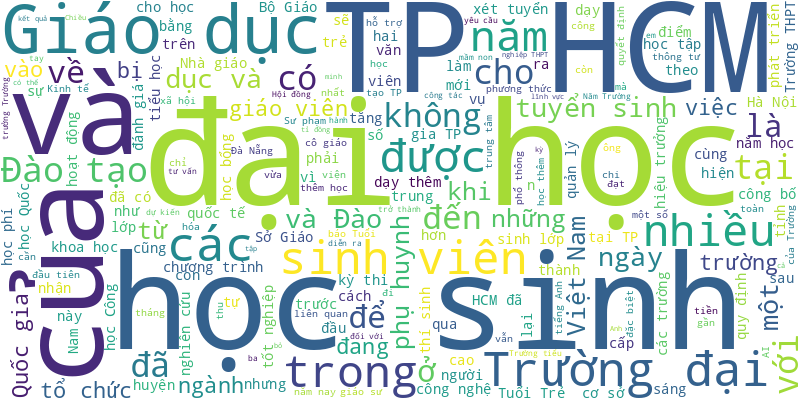
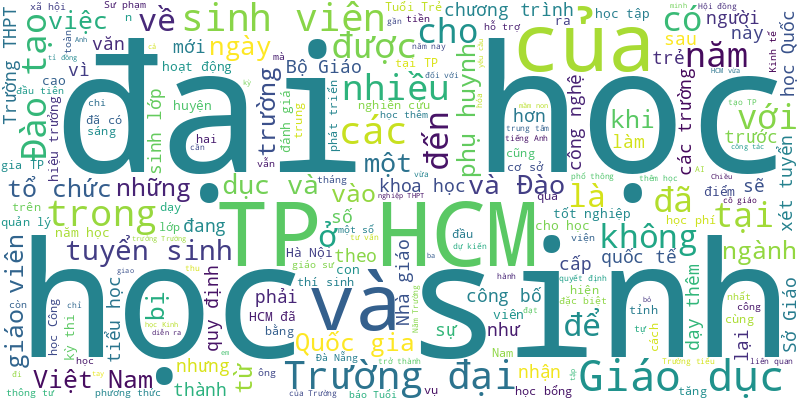
🍀 = 10%

diff --git a/README.md b/README.md
@@ -1,6 +1,14 @@
 # Tuoi Tre RSS 
 
 ## Giáo dục 
+- Sáng nay 23-2, Ngày hội tự tin vào lớp 10 do báo Tuổi Trẻ phối hợp Sở GD-ĐT Hà Nội lần đầu tổ chức tại Trường THPT chuyên Chu Văn An.
+- Chủ đề nóng "không dạy thêm đối với học sinh tiểu học" trong thông tư 29 là vấn đề bàn luận sôi nổi của các em học sinh tiểu học tại quận Gò Vấp, TP.HCM.
+- Chiều 22-2, Đại học Quốc gia TP.HCM tổ chức tọa đàm "Liên kết đại học - địa phương - doanh nghiệp: Hợp lực vì sự phát triển kinh tế và xã hội", với sự tham gia của nhiều lãnh đạo bộ ngành, địa phương, doanh nghiệp và hàng trăm giảng viên, sinh viên.
+- Nhiều học sinh lớp 10, 11 có dự định đổi môn học để chọn tổ hợp môn xét tuyển đại học khác. Điều này liệu có ảnh hưởng đến việc xét tuyển đại học, cao đẳng?
+- Khi nào Bộ Giáo dục và Đào tạo công bố quy chế tuyển sinh đại học năm 2025? Quy chế sẽ có điểm mới quan trọng nào đáng lưu ý?
+- Tại Chương trình tư vấn tuyển sinh - hướng nghiệp 2025 do báo Tuổi Trẻ tổ chức ở Phú Yên, gian tư vấn của các trường thu hút đông học sinh đến nghe trực tiếp về chương trình đào tạo, cơ hội việc làm...
+- Một sinh viên năm nhất Trường đại học Kinh tế - Luật (Đại học Quốc gia TP.HCM) vừa nhận lệnh đi nghĩa vụ quân sự,  gia đình phải làm đơn xin tạm dừng học.
+- Khởi đầu năm 2025, sinh viên ngành Quản trị khách sạn của SIU đã có một hành trình kiến tập đặc biệt tại các resort cao cấp ở Mũi Né (TP. Phan Thiết, Bình Thuận).
 - Việt Nam sẽ lần đầu tiên đăng cai Hội nghị quốc tế về trí tuệ nhân tạo và bán dẫn (AISC 2025) - sự kiện hàng đầu thế giới về công nghệ AI và bán dẫn, diễn ra từ 12 đến 16-3 tại Hà Nội và Đà Nẵng.
 - Trong sáng và chiều nay 22-2, chương trình tư vấn tuyển sinh hướng nghiệp 2025 do báo Tuổi Trẻ tổ chức diễn ra tại Phú Yên và Khánh Hòa.
 - Việc Trường Quốc tế Saigon Pearl đóng cửa vì tuyển sinh khó khăn đã đặt ra câu hỏi: mô hình trường quốc tế có bước vào giai đoạn 'thoái trào'?
@@ -994,16 +1002,45 @@
 - Cô giáo Trương Phương Hạnh bị xử lý kỷ luật ở mức cảnh cáo và không được đứng lớp, chuyển sang làm giáo vụ của trường.
 - Các quan chức khẳng định thực phẩm và đồ uống được cung cấp trong trường học cần phải được sản xuất bằng các nguyên liệu tự nhiên, và phải loại bỏ đồ ăn vặt.
 - Sinh viên khoa truyền thông sáng tạo của Trường đại học Nguyễn Tất Thành có một buổi thực hành tác nghiệp ảnh báo chí thú vị tại Bưu điện TP.HCM.
-- Mức điểm sàn nhận hồ sơ xét tuyển bổ sung vào các trường quân đội dao động từ 10,75 - 28,55 điểm, thang điểm 30 và đã bao gồm điểm ưu tiên.
-- Sau khi va quẹt xe máy ngã xuống đường, một nam sinh dùng mũ bảo hiểm đánh tới tấp nam sinh khác.
-- Việc trường học mời phụ huynh "mục sở thị" bữa ăn bán trú cần được lan tỏa và nhân rộng. Tại sao?
-- Thông tin được đưa ra trong Ngày hội du học New Zealand 2024, diễn ra vào sáng nay 19-10.
-- Nhiều học sinh, sinh viên và phụ huynh tại TP.HCM đến tuần lễ Giáo dục châu Âu để tìm hiểu về trường, học bổng và những chính sách du học phù hợp.
-- Trường đại học Y Dược TP.HCM đã chính thức có hiệu trưởng sau 4 năm nhà trường khuyết chức danh này.
-- Những ngày qua, mạng xã hội xôn xao đoạn tin nhắn của cô giáo đề cập chuyện tặng quà giáo viên nhân Ngày Phụ nữ Việt Nam (20-10).
-- Kỳ thi lớp 10 gồm ba môn toán, ngữ văn và một môn thi thứ ba hoặc bài thi tổ hợp do sở giáo dục và đào tạo lựa chọn và được công bố trước ngày 31-3 hằng năm.
 ![Edu](Edu.png)
 ## Thời Sự 
+- HĐND tỉnh Khánh Hòa không đồng ý với giải trình của UBND tỉnh về đề nghị sửa nghị quyết hơn 10 năm trước.
+- Khu đất vàng 2 mặt tiền giữa trung tâm Đà Nẵng từng liên quan vụ án Phan Văn Anh Vũ được đưa ra đấu giá với giá khởi điểm 59,2 triệu đồng/m2.
+- Trong 10 năm tới, Việt Nam cần chuyển từ lương tối thiểu sang lương đủ sống tối thiểu (khoảng 10,5 triệu đồng/tháng).
+- Năm 2024, dân số TP.HCM chỉ hơn Hà Nội 1 triệu người (TP.HCM 9,5 triệu dân; Hà Nội 8,6 triệu dân) nhưng mật độ dân số của TP.HCM cao gấp 1,7 lần so với Hà Nội, với 4.544 người/km², còn Hà Nội 2.585 người/km².
+- Tin tức đáng chú ý: TP.HCM điều chỉnh lịch trả lương hưu và trợ cấp BHXH bằng tiền mặt; Nhiều quận ở Hà Nội lắp camera giám sát xả rác; Một bệnh viện ở TP.HCM tiếp nhận 15.000 ca đột quỵ mỗi năm...
+- Hôm nay 23-2, thời tiết Bắc Bộ mưa rét do ảnh hưởng không khí lạnh. Nam Bộ có nơi mưa to do nhiễu động.
+- Bắc Ninh đang thu hút đầu tư nước ngoài có trọng điểm và mong muốn Huawei nghiên cứu, tìm hiểu cơ hội đầu tư vào tỉnh qua sản xuất linh kiện điện tử, bán dẫn...
+- Theo Bộ Ngoại giao, cuộc gặp của ba Thủ tướng nhằm triển khai kết luận cuộc gặp giữa ba người đứng đầu ba Đảng ở Việt Nam, Lào và Campuchia trong ngày 22-2.
+- Liên quan vụ sai phạm đền bù dự án sân bay Long Thành, Công an Đồng Nai vừa bắt thêm giám đốc, phó giám đốc Trung tâm phát triển quỹ đất huyện Long Thành và nhiều cán bộ.
+- Suối ở Phú Quốc (Kiên Giang) có dấu hiệu thiếu hụt nguồn nước. Để bảo vệ rừng, UBND TP Phú Quốc và các đơn vị chủ rừng triển khai nhiều giải pháp và người dân địa phương đồng lòng ký cam kết giữ rừng cho đảo ngọc.
+- Ngày 22-2, tại TP.HCM, Tổng Bí thư Tô Lâm đã có cuộc gặp Chủ tịch Đảng Nhân dân Campuchia Hun Sen và Tổng Bí thư Đảng Nhân dân cách mạng Lào Thongloun Sisoulith.
+- Dự báo đêm nay đến ngày mai từ Đà Nẵng đến Khánh Hòa, Nam Tây Nguyên và Nam Bộ có mưa, có nơi mưa to. Miền Bắc đón không khí lạnh, trời mưa rét.
+- Tổng mức đầu tư dự án đường cao tốc Biên Hòa - Vũng Tàu được kiến nghị điều chỉnh lên 22.093 tỉ đồng, tăng 4.256 tỉ so với mức 17.837 tỉ đã được duyệt.
+- Nhóm lừa đảo người Việt dưới sự quản lý của người Trung Quốc đã dẫn dụ hàng trăm người, chiếm đoạt hàng chục tỉ đồng.
+- Khi có dịp phải đi đâu bằng xe giường nằm, cảm giác lo lắng luôn ở trong tôi và chỉ thực sự an tâm khi kết thúc chuyến hành trình.
+- Người nhà sản phụ tố Bệnh viện Phụ sản trung ương tắc trách khiến sản phụ sinh non, Bộ Y tế yêu cầu bệnh viện làm rõ.
+- Ông Nguyễn Văn Được hứa sẽ tham mưu, đề xuất Ban Chấp hành Đảng bộ TP.HCM sớm tháo gỡ những điểm nghẽn, khó khăn, vướng mắc về giao thông, thương mại giữa TP.HCM với vùng Đồng bằng sông Cửu Long.
+- Theo người dân, ngoài 3 người đã đi tiêm huyết thanh kháng dại, con chó dại trên còn cắn một số người nhưng chưa rõ danh tính và địa chỉ cư trú.
+- Nam thanh niên xông vào cửa hàng FPT Shop trên đường Phạm Văn Đồng (phường Linh Tây, TP Thủ Đức, TP.HCM), tay cầm dao đe dọa nhân viên, cướp tiền rồi tẩu thoát.
+- Người dân mong muốn việc sáp nhập tỉnh, bỏ cấp huyện nên thực hiện như thế nào để đảm bảo phù hợp, hiệu lực, hiệu quả...
+- Tài xế cần đảm bảo sức khỏe, tỉnh táo khi lái xe; khi đi trên đường đèo dốc, cong cua, trơn trượt, cần chú ý quan sát giảm tốc độ.
+- TP.HCM sẽ có khu 'campus y tế' đầu tiên tại Việt Nam, đúng tiêu chuẩn kiểu mẫu của các nước có nền y tế phát triển trên thế giới, đó chính là Cụm y tế Tân Kiên, huyện Bình Chánh.
+- Sáng nay 22-2, Tổng Bí thư Tô Lâm cùng đoàn lãnh đạo các cấp đã có chuyến đi trải nghiệm tuyến metro số 1 TP.HCM.
+- Nhiều địa phương đã cùng hiến kế, góp vốn và đưa ra các giải pháp nhằm khơi thông các động lực tăng trưởng.
+- Nhiều gia đình có con đang tại ngũ cho biết chậm được cấp thẻ bảo hiểm y tế, thường sau khoảng 3-4 tháng mới có thẻ.
+- Ngày 21-2, Chính phủ Việt Nam đã ra Tuyên bố về đường cơ sở của Việt Nam trong vịnh Bắc Bộ.
+- Ở biển, nhiều người vẫn mang nỗi lo 'cứu người thế mạng'. Nhưng có một người đàn ông, ai bị nạn trên biển ông cũng cứu.
+- Hai vấn đề cần làm rõ từ vụ việc bán gạo giá rẻ lề đường, bị mời làm việc.
+- Thành ủy TP Huế đã công bố nhiều quyết định điều động nhân sự, trong đó hợp nhất Ban Dân vận và Ban Tuyên giáo Thành ủy TP Huế thành Ban Tuyên giáo và Dân vận Thành ủy.
+- Đến 11h ngày 22-2, Phòng cảnh sát giao thông Công an tỉnh Khánh Hòa vẫn đang tiếp tục điều tra nguyên nhân vụ tai nạn liên hoàn giữa 2 xe khách và xe tải trên tuyến quốc lộ 1 đoạn qua địa bàn tỉnh này.
+- Chủ tịch Quốc hội Trần Thanh Mẫn vừa ký ban hành nghị quyết về nhiệm vụ, quyền hạn cụ thể và cơ cấu tổ chức của Hội đồng Dân tộc, các ủy ban của Quốc hội.
+- Liên quan đến vụ án chồng giết vợ, cắt thi thể thành 3 phần thả xuống biển phi tang ở Đà Nẵng, người chồng giết vợ sau cãi vã vì vợ đòi đi chơi với nhóm bạn.
+- Ngày 22-2, Sở Xây dựng Đà Nẵng công bố thông tin các dự án đầu tư xây dựng nhà ở thương mại cho phép tổ chức, cá nhân nước ngoài được quyền sở hữu nhà ở trên địa bàn.
+- Theo số liệu của Bộ Nội vụ, sau sắp xếp, sáp nhập, hiện cả nước có 63 tỉnh, thành, với 696 đơn vị cấp huyện, 10.035 đơn vị cấp xã.
+- Tài xế Nguyễn Đình Hùng bị tạm giữ hình sự với cáo buộc không đảm bảo tốc độ an toàn khi điều khiển xe khách, dẫn đến vụ tai nạn nghiêm trọng.
+- Ông Nguyễn Văn Quyết, Phó chủ nhiệm Ủy ban Kiểm tra Trung ương, được Bộ Chính trị điều động, chỉ định giữ chức Bí thư Tỉnh ủy Long An, nhiệm kỳ 2020-2025.
+- Trong số 8 người bị thương vụ xe khách văng vào xe đầu kéo ở Sơn La làm 6 người chết, có một số người bị thương nặng phải chuyển lên bệnh viện tuyến trên nhưng không nguy hiểm đến tính mạng.
 - Chỉ dài đúng 1km nhưng đoạn quốc lộ 27 đi qua xã Lạc Lâm (huyện Đơn Dương, tỉnh Lâm Đồng) có đến 23 biển báo cấm đậu xe ngày chẵn.
 - Khung cảnh hiện trường tang thương và hoảng loạn, trong khi tiếng kêu cứu vang vọng khắp nơi. 'Chiếc xe khách bị xé toạc phần thân, rách tan lớp vỏ ngoài. Mọi người rơi ra, nằm la liệt trên mặt đất', nhân chứng vụ tai nạn mô tả.
 - Một số tin tức đáng chú ý: Đề nghị rà soát, báo cáo để chuẩn bị đề xuất điều chỉnh lương tối thiểu vùng; Kho bạc Nhà nước mua lượng lớn USD giữa lúc tỉ giá 'căng'; Lý do khối ngoại rút tiền khỏi chứng khoán Việt...
@@ -1012,7 +1049,7 @@
 - Nguyên nhân sơ bộ được xác định là lái xe khách đi đến đoạn đường vòng cua, mặt đường trơn trượt do trời mưa dẫn đến không làm chủ tốc độ. Sau đó, phần đuôi ô tô khách văng vào đầu xe đầu kéo đi chiều ngược lại.
 - Vụ tai nạn giao thông giữa xe khách giường nằm và xe đầu kéo trên quốc lộ 6 (đoạn qua Sơn La) làm 6 người chết, 4 người bị thương.
 - Lần theo dấu vết một tiệm tạp hóa bán 100kg cà phê bột, Công an tỉnh Đắk Lắk đã triệt phá một xưởng sản xuất cà phê giả quy mô lớn nằm ở Bình Dương, TP.HCM.
-- Tính đến nay có 180 cán bộ, công chức, viên chức tự nguyện nghỉ trước tuổi, thôi việc khi Bộ Nội vụ hợp nhất với Bộ Lao động, Thương binh và Xã hội.
+- Tính đến nay có 180 cán bộ, công chức, viên chức tự nguyện nghỉ trước tuổi khi Bộ Nội vụ hợp nhất với Bộ Lao động, Thương binh và Xã hội.
 - Hội đồng nhân dân tỉnh Bắc Giang vừa có hai nghị quyết thông qua chủ trương liên quan tới cầu Hà Bắc 1 và cầu Vân Hà với tổng mức đầu tư gần 2.000 tỉ đồng, kết nối hai tỉnh Bắc Giang và Bắc Ninh.
 - Theo nhiệm vụ quy hoạch chi tiết, Trường đại học Ngoại thương cơ sở Bắc Ninh sẽ nằm ở thành phố Từ Sơn với quy hoạch khoảng 33,66 ha.
 - Ngày 21-2, Bộ Công Thương quyết định áp thuế chống bán phá giá tạm thời đối với thép cán nóng (HRC) nhập khẩu từ Trung Quốc, với mức thuế dao động 19,38 - 27,83%.
@@ -1967,43 +2004,6 @@
 - Tổng Bí thư Tô Lâm yêu cầu các cơ quan, đơn vị, địa phương bắt tay ngay vào công việc sau nghỉ Tết, không để xảy ra tình trạng ăn Tết kéo dài.
 - Khu bảo tồn thiên nhiên đất ngập nước Thái Thụy (Thái Bình) là nơi được Bộ Tài nguyên và Môi trường lựa chọn phát động Tết trồng cây.
 - Trưởng Ban Tuyên giáo và Dân vận Trung ương Nguyễn Trọng Nghĩa nêu rõ năm 2024 đã trải qua nhiều sự kiện, vấn đề hệ trọng của đất nước.
-- Ngày 4-2, Tỉnh ủy Quảng Ngãi tổ chức hội nghị công bố quyết định thành lập, kết thúc, giải thể tổ chức Đảng và công tác cán bộ.
-- Nghị định 168 quy định cụ thể về mức phạt đối với một số lỗi vi phạm mà các tài xế xe máy thường mắc phải.
-- Cơ quan chức năng đã làm việc với chủ quán cơm Tân Mai trên quốc lộ 1 (huyện Tuy An, Phú Yên) sau khi bị khách tố 'chặt chém'.
-- Chủ tịch Quốc hội Trần Thanh Mẫn biểu dương lực lượng công an tiên phong đi đầu trong việc sắp xếp, tinh gọn bộ máy.
-- Dọc theo hai bờ sông Hàn (Đà Nẵng), những tòa nhà cao tầng thay nhau mọc lên, làm bộ mặt đôi bờ sông càng ngày càng hiện đại.
-- Sau hành trình dài chạy ô tô qua nhiều địa phương để về quê chơi Tết, nhiều tài xế lo ngại xe của mình bị 'dính' phạt nguội và tìm cách tra cứu.
-- Sáng 4-2, Thủ tướng Phạm Minh Chính - trưởng Ban Chỉ đạo xây dựng nhà máy điện hạt nhân, chủ trì phiên họp thứ hai.
-- Đó là yêu cầu của Thủ tướng về việc thực hiện nếp sống văn minh, an toàn, tiết kiệm trong các hoạt động sau Tết Ất Tỵ và Lễ hội xuân năm 2025.
-- Tin từ Sở Y tế TP.HCM cho hay trong dịp Tết Ất Tỵ, số ca cấp cứu và điều trị do tai nạn giao thông giảm, số ca cấp cứu do pháo nổ giảm 50%.
-- Dịp Tết, tại các cửa ngõ TP.HCM, mặc dù lượng xe vẫn nhiều nhưng không xảy ra cảnh 'kẹt cứng' kéo dài nhiều km như những năm trước.
-- Một số tin tức đáng chú ý: Phạt một công ty bảo hiểm vì đưa thông tin gây nhầm lẫn để hút khách; Sếp VPBank chi gần 600 tỉ đồng mua cổ phiếu đầu năm; Nhu cầu thấp, siêu thị, chợ 'ê hề' hàng những ngày đầu năm...
-- Hôm nay 4-2, không khí lạnh đã bao trùm Bắc Bộ và lan tới các tỉnh Trung Bộ. Nam Bộ thời tiết sớm lạnh, ngày nắng.
-- Công an xã Vĩnh Thái giữ đúng hẹn ngày đầu tiên làm việc đã công bố 27 trang sao kê số tiền 559 nhà hảo tâm lì xì người phụ nữ mất tiền khi đi chợ Tết. Tổng số tiền ủng hộ là hơn 160 triệu đồng.
-- Tối 3-2 (mùng 6 Tết), một trận động đất mạnh 2,6 độ xảy ra tại khu vực huyện Chương Mỹ (Hà Nội). Nhiều người dân ở khu vực ngoại thành cảm nhận được rung lắc.
-- Ban Chấp hành Đảng bộ tỉnh Bắc Ninh khóa XX tổ chức hội nghị công bố quyết định về việc sắp xếp tổ chức bộ máy và công tác cán bộ.
-- Quá trình chữa cháy, trung tá Nguyễn Quang Hiếu, phó trưởng Công an huyện Kim Thành, bị thương và đã được đưa đến Trung tâm Y tế huyện điều trị.
-- Khi phát hiện 3 cháu bé bị đuối nước dưới hồ, chị Nguyễn Thị Trang đã lập tức băng qua lan can, lao xuống hồ cứu các cháu.
-- Một quán cơm nằm trên quốc lộ 1, đoạn qua xã An Hiệp (huyện Tuy An, Phú Yên) bị khách tố “chặt chém”. Thậm chí khi khách thắc mắc, nhân viên quán này còn thách thức cho rằng ngày Tết không lì xì thì thôi sao lại so bì giá.
-- Chiều 3-2, Thủ tướng Chính phủ Phạm Minh Chính chủ trì họp Thường trực Chính phủ với các bộ, ngành đánh giá tình hình Tết và triển khai nhiệm vụ trọng tâm sau Tết.
-- Ông Lương Văn Thức - trưởng Ban Nội chính Tỉnh ủy và bà Hoàng Thị Vĩnh - trưởng Ban Dân vận Tỉnh ủy Yên Bái - xin nghỉ hưu trước tuổi để tạo điều kiện cho việc sắp xếp bộ máy.
-- Ngọn lửa bùng lên tại tầng 2 của một căn nhà cho thuê trọ cao 6 tầng. Cảnh sát đã giải cứu 7 người mắc kẹt bên trong qua tầng mái sang nhà bên cạnh và đưa xuống nơi an toàn.
-- Ngày 3-2, Tổng Bí thư Tô Lâm đã trao quyết định của Bộ Chính trị về chỉ định nhân sự 4 đảng bộ trực thuộc Trung ương và 3 cơ quan Đảng ở Trung ương.
-- Bà Huỳnh Thị Thùy Dung được bổ nhiệm làm trưởng Ban Tuyên giáo và Dân vận Tỉnh ủy Quảng Nam sau hợp nhất hai ban của Tỉnh ủy.
-- Dân nuôi tôm, cua ở huyện An Minh, An Biên (Kiên Giang) hiện chủ động phòng tránh xâm nhập mặn bằng việc gia cố bờ bao và đo độ mặn trên kênh, sông nội đồng thường xuyên trước khi bơm nước vào ruộng.
-- Cuốn sách 'Tuyệt đối trung thành với Tổ quốc, với Đảng, Nhà nước và Nhân dân - Sáng ngời tư cách người Công an cách mạng' thể hiện trách nhiệm, sự tâm huyết, tấm lòng vì nước, vì dân của Tổng Bí thư Tô Lâm.
-- Tổng Bí thư Tô Lâm trao các quyết định thành lập 4 đảng bộ trực thuộc Trung ương Đảng, gồm Đảng bộ các cơ quan Đảng Trung ương, Đảng bộ Chính phủ, Đảng bộ Quốc hội và Đảng bộ Mặt trận Tổ quốc Việt Nam, các đoàn thể Trung ương.
-- Phát học bổng cho con cháu đầu xuân, làng Nại Cửu hy vọng 'Chắt chiu khuyến học hôm nay / Ươm mầm tài lộc ngày mai cho làng'.
-- Tỉnh ủy Long An công bố thành lập 2 Đảng bộ mới từ 54 cơ sở Đảng tiếp nhận từ Đảng bộ Khối cơ quan và doanh nghiệp tỉnh.
-- Tại phiên họp 42, Ủy ban Thường vụ Quốc hội sẽ cho ý kiến liên quan các nghị quyết của Quốc hội về cơ cấu tổ chức của Chính phủ nhiệm kỳ Quốc hội khóa XV.
-- Ngày 3-2, Công ty cổ phần Tập đoàn Trường Hải (THACO) tổ chức lễ ra quân đầu năm Ất Tỵ 2025, khánh thành bến cảng 5 vạn tấn, hàng loạt nhà máy và xuất khẩu các lô hàng đầu năm.
-- Tổng biên tập báo Đắk Nông cho hay đây là báo đảng địa phương thứ 2 trong toàn quốc ra mắt chuyên trang Đại hội Đảng.
-- Từ ngày 25-1 (ngày 26 tháng chạp) đến hết 2-2 (mùng 5 tháng giêng), trạm thu phí BOT cầu Rạch Miễu đã phải xả 43 lần theo yêu cầu của cảnh sát giao thông hai tỉnh Tiền Giang và Bến Tre để giảm ùn tắc.
-- Sáng 3-2, Quận ủy quận 10 tổ chức lễ công bố dự thảo văn kiện và tổ chức lấy ý kiến nhân dân góp ý văn kiện Đại hội Đại biểu Đảng bộ quận 10 lần thứ XIII, nhiệm kỳ 2025 - 2030.
-- Bí thư Trung ương Đảng Lê Hoài Trung được bổ nhiệm giữ chức chánh Văn phòng Trung ương Đảng.
-- Ô tô con dừng trên làn khẩn cấp cao tốc Nội Bài - Lào Cai. Nhiều người trên xe sau đó trải chiếu ngồi ăn uống bên lề đường cao tốc, tiềm ẩn nguy cơ tai nạn.
-- Sáng 3-2, Tỉnh ủy Đồng Tháp công bố quyết định thành lập Ban Tuyên giáo và Dân vận Tỉnh ủy. Bà Nguyễn Thị Kim Tuyến - phó chủ tịch HĐND tỉnh - làm trưởng Ban Tuyên giáo và Dân vận Tỉnh ủy.
-- Người phụ nữ đang đi trên đường tình cờ nhặt được chiếc ví bên trong có tiền và vàng trị giá hơn 400 triệu đồng. Tài sản sau đó được trả lại cho chủ nhân ở Ninh Thuận.
 ![New](News.png)
 ## Nhịp sống số 
 - Cùng với bước đột phá của metro, xu hướng thanh toán không tiền mặt cũng đang góp phần nâng tầm trải nghiệm di chuyển nhanh chóng và tiện lợi hơn cho cư dân đô thị.
